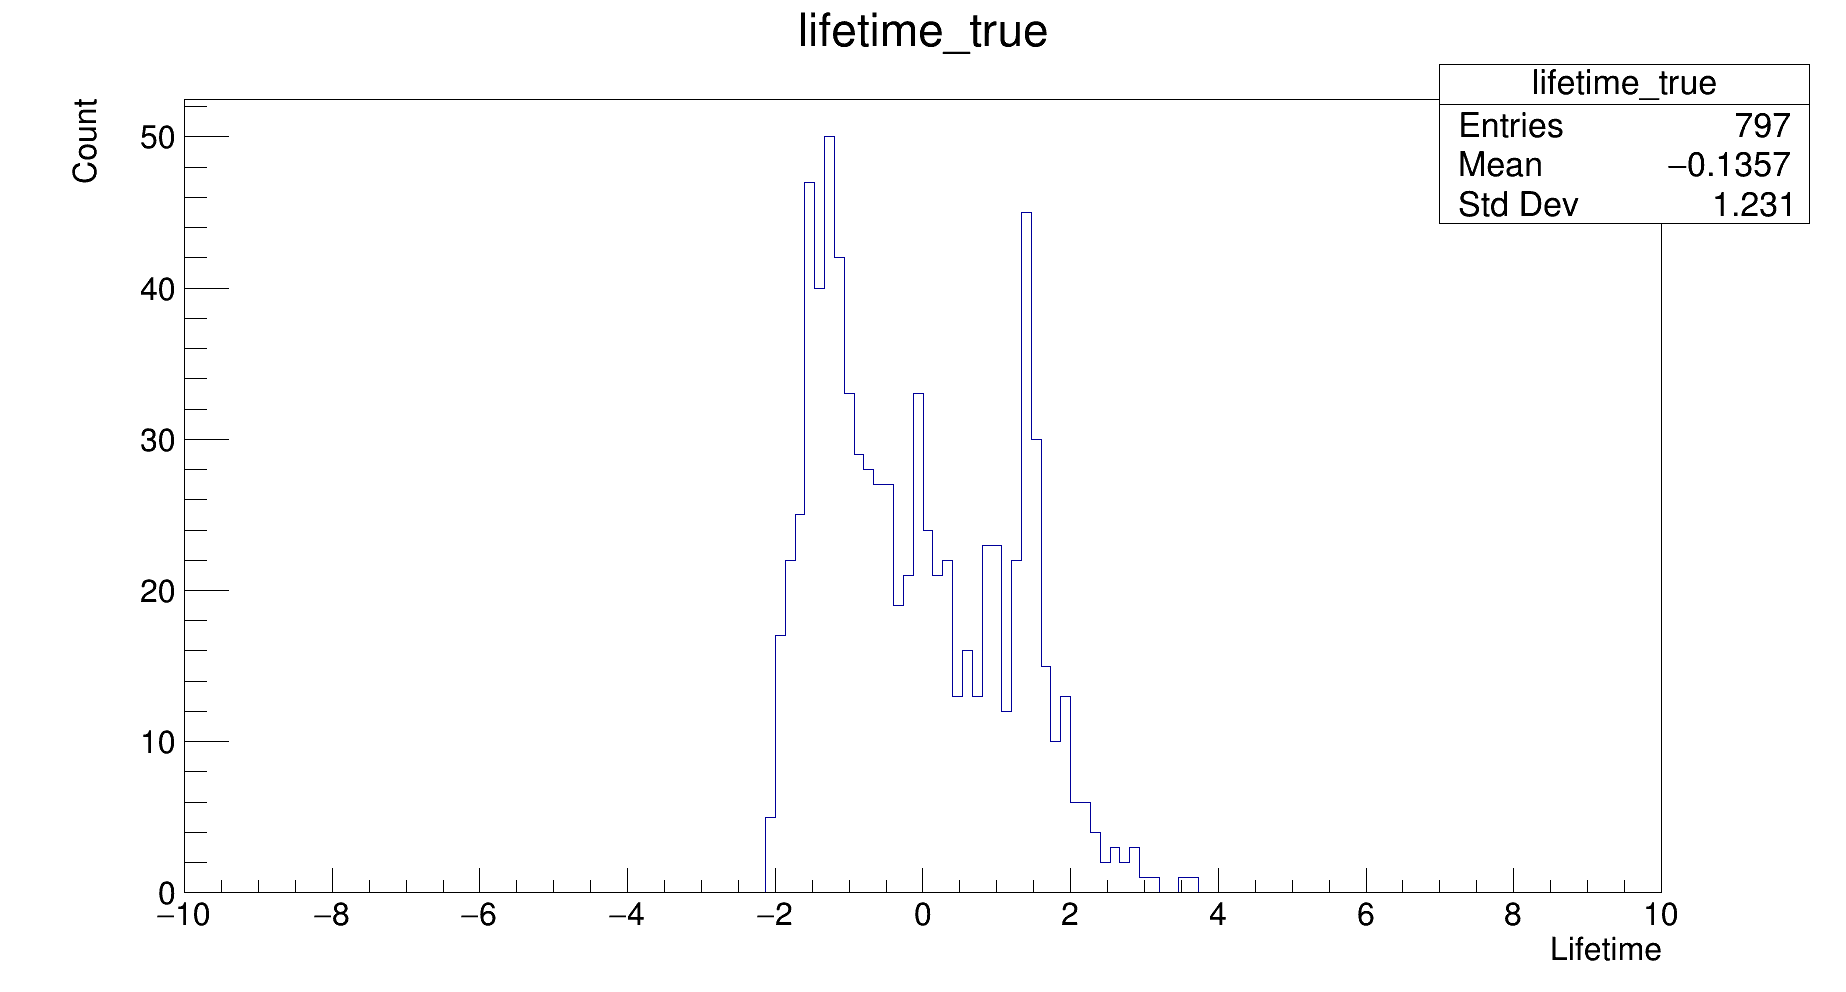
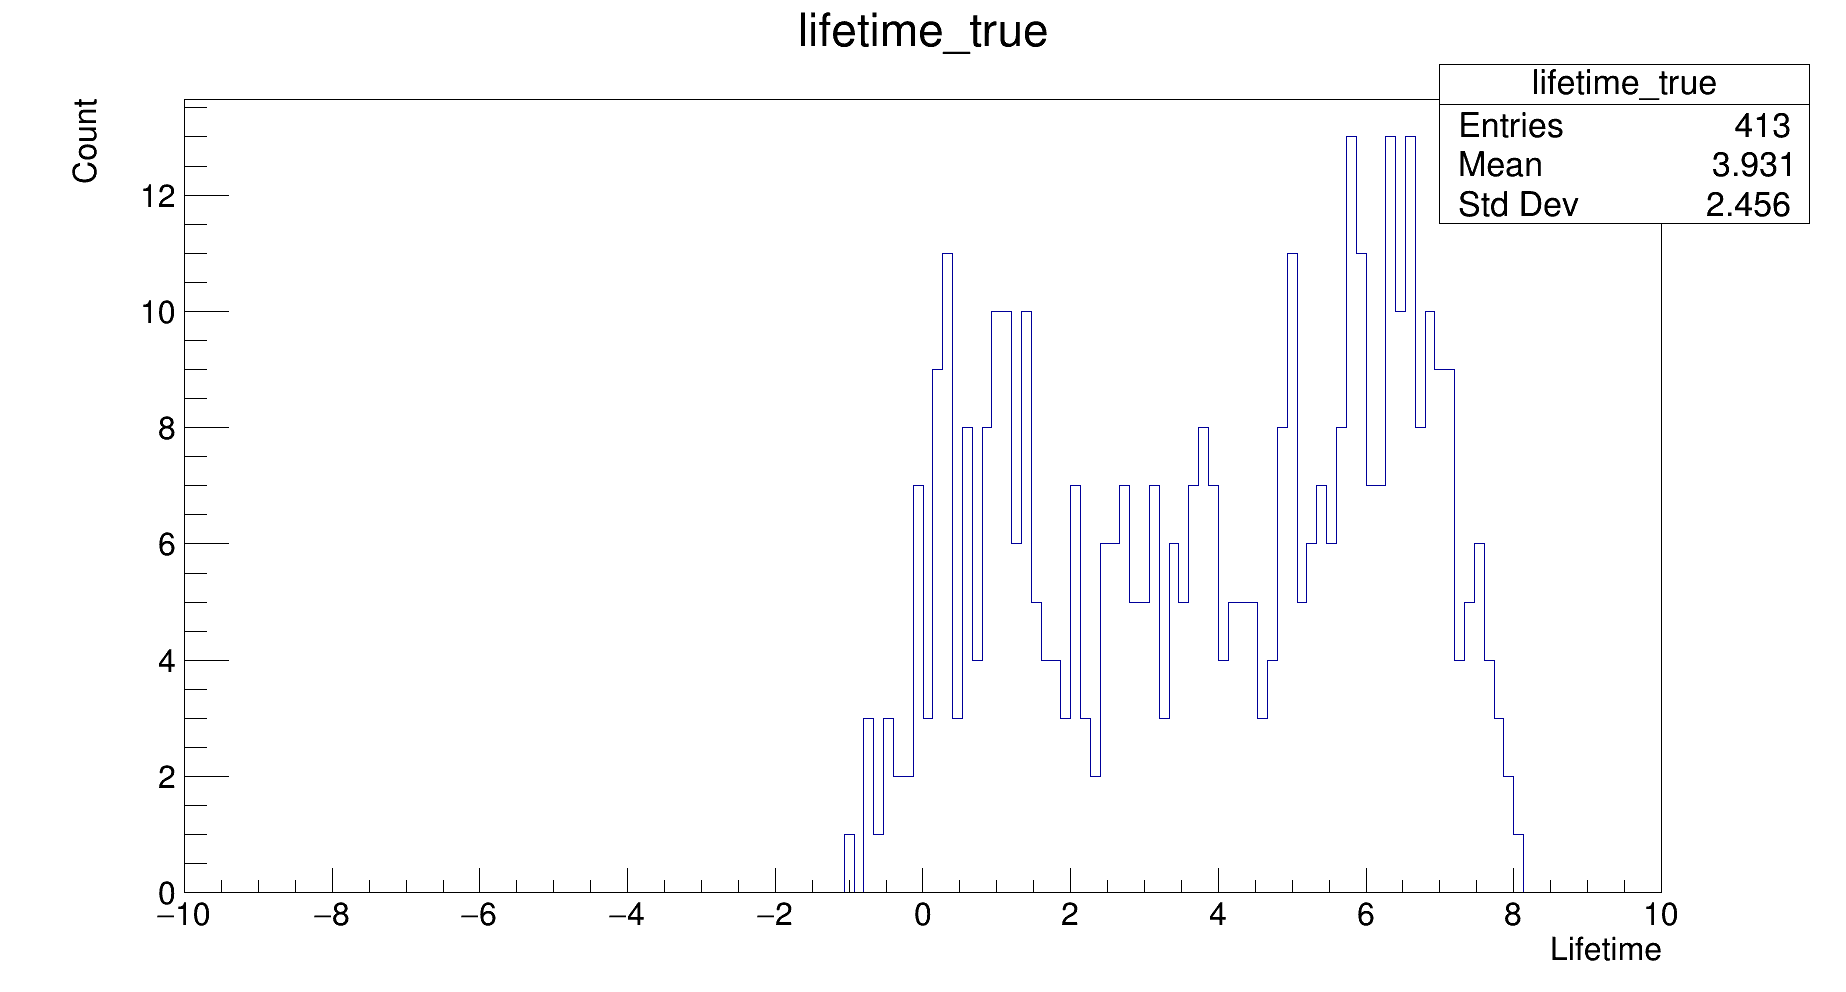
Made changes trying to figur out where the problem lies

diff --git a/DTW_algorithm/calc_lifetime.h b/DTW_algorithm/calc_lifetime.h
@@ -11,7 +11,7 @@
 
 
 vector<float> calc_lifetime(ROOT::RDF::RInterface<ROOT::Detail::RDF::RJittedFilter, void> df){
-	float timeRescale = 1/1000;	//rescale time unit to seconds
+	float timeRescale = 1/1000;	//rescale time unit to nanoseconds
 	float c = 30;		//speed of light [cm/ns]
 	auto time_Vec = *(df.Take<vector<float>>("time"));
 	auto x_Vec = *(df.Take<vector<float>>("x"));
@@ -28,16 +28,23 @@ vector<float> calc_lifetime(ROOT::RDF::RInterface<ROOT::Detail::RDF::RJittedFilt
 	for (int i = 0; i < time_Vec.size(); i++){
 		//set index mapping based on prompt index
 		if(energy[i][0] > 511.0){
-			iMap[0] = 0; iMap[1] = 1; iMap[2] = 2;
+			iMap[0] = 0; 
+			if(time_Vec[i][1] > time_Vec[i][2]){ iMap[1] = 1; iMap[2] = 2;}
+			else { iMap[1] = 2; iMap[2] = 1;}
 		}
-		if(energy[i][1] > 511.0){
-			iMap[0] = 1; iMap[1] = 0; iMap[2] = 2;
+		else if(energy[i][1] > 511.0){
+			iMap[0] = 1;
+			if(time_Vec[i][0] > time_Vec[i][2]){ iMap[1] = 0; iMap[2] = 2;}
+			else { iMap[1] = 2; iMap[2] = 0;}
 		}
-		if(energy[i][2] > 511.0){
-			iMap[0] = 2; iMap[1] = 0; iMap[2] = 1;
+		else if(energy[i][2] > 511.0){
+			iMap[0] = 2;
+			if(time_Vec[i][0] > time_Vec[i][1]){ iMap[1] = 0; iMap[2] = 1;}
+			else { iMap[1] = 1; iMap[2] = 0;}
 		}
-		
-		std::cout << energy[i][iMap[0]] << "  " << energy[i][iMap[1]] << "  " << energy[i][iMap[2]] << std::endl;
+		else{
+			continue;
+		}
 	
 		//determine decay origin
 		vecAB = { (x_Vec[i][iMap[1]] - x_Vec[i][iMap[2]]), (y_Vec[i][iMap[1]] - y_Vec[i][iMap[2]]), (z_Vec[i][iMap[1]] - z_Vec[i][iMap[2]]) };
@@ -46,7 +53,7 @@ vector<float> calc_lifetime(ROOT::RDF::RInterface<ROOT::Detail::RDF::RJittedFilt
 		origin[0] = x_Vec[i][iMap[1]] + (0.5 + c*timeRescale*(time_Vec[i][iMap[1]]-time_Vec[i][iMap[2]]) / (2*lenAB) ) * vecAB[0];
 		origin[1] = y_Vec[i][iMap[1]] + (0.5 + c*timeRescale*(time_Vec[i][iMap[1]]-time_Vec[i][iMap[2]]) / (2*lenAB) ) * vecAB[1];
 		origin[2] = z_Vec[i][iMap[1]] + (0.5 + c*timeRescale*(time_Vec[i][iMap[1]]-time_Vec[i][iMap[2]]) / (2*lenAB) ) * vecAB[2];
-		//std::cout << origin[0] << "	" << origin[1] << "	" << origin[2] << std::endl;
+		std::cout << origin[0] << "	" << origin[1] << "	" << origin[2] << std::endl;
 	
 		//calculate "machine time" T
 		pDist = { x_Vec[i][iMap[0]] - origin[0], y_Vec[i][iMap[0]] - origin[1], z_Vec[i][iMap[0]] - origin[2] };
@@ -61,7 +68,7 @@ vector<float> calc_lifetime(ROOT::RDF::RInterface<ROOT::Detail::RDF::RJittedFilt
 		tFl2 = TMath::Sqrt( pDist[0]*pDist[0] + pDist[1]*pDist[1] + pDist[2]*pDist[2]) / c;
 		tEm2 = timeRescale*time_Vec[i][iMap[2]] - tFl2 - refTime;
 		
-		lifetimes.push_back( (tEm1 + tEm2)/2 - timeRescale*time_Vec[i][iMap[0]]);
+		lifetimes.push_back( (tEm1 + tEm2)/2 - (timeRescale*time_Vec[i][iMap[0]])-refTime);
 	}
 	
 	return lifetimes;

diff --git a/DTW_algorithm/DTW.cpp b/DTW_algorithm/DTW.cpp
@@ -92,10 +92,6 @@ void DTW(){
 	std::unique_ptr<TCanvas> canv2(new TCanvas("canv2", "canv2", 1920, 1080));
 	TH1F *histAcc = new TH1F("lifetime_acc","lifetime_acc",150,-10,10);
 	
-	for (int i = 0; i < 20; i++){
-		cout << lf_Acc[i] << endl;
-	}
-	
 	for (int i = 0; i < lf_Acc.size(); i++){
 		histAcc->Fill(lf_Acc[i]);
 	}
